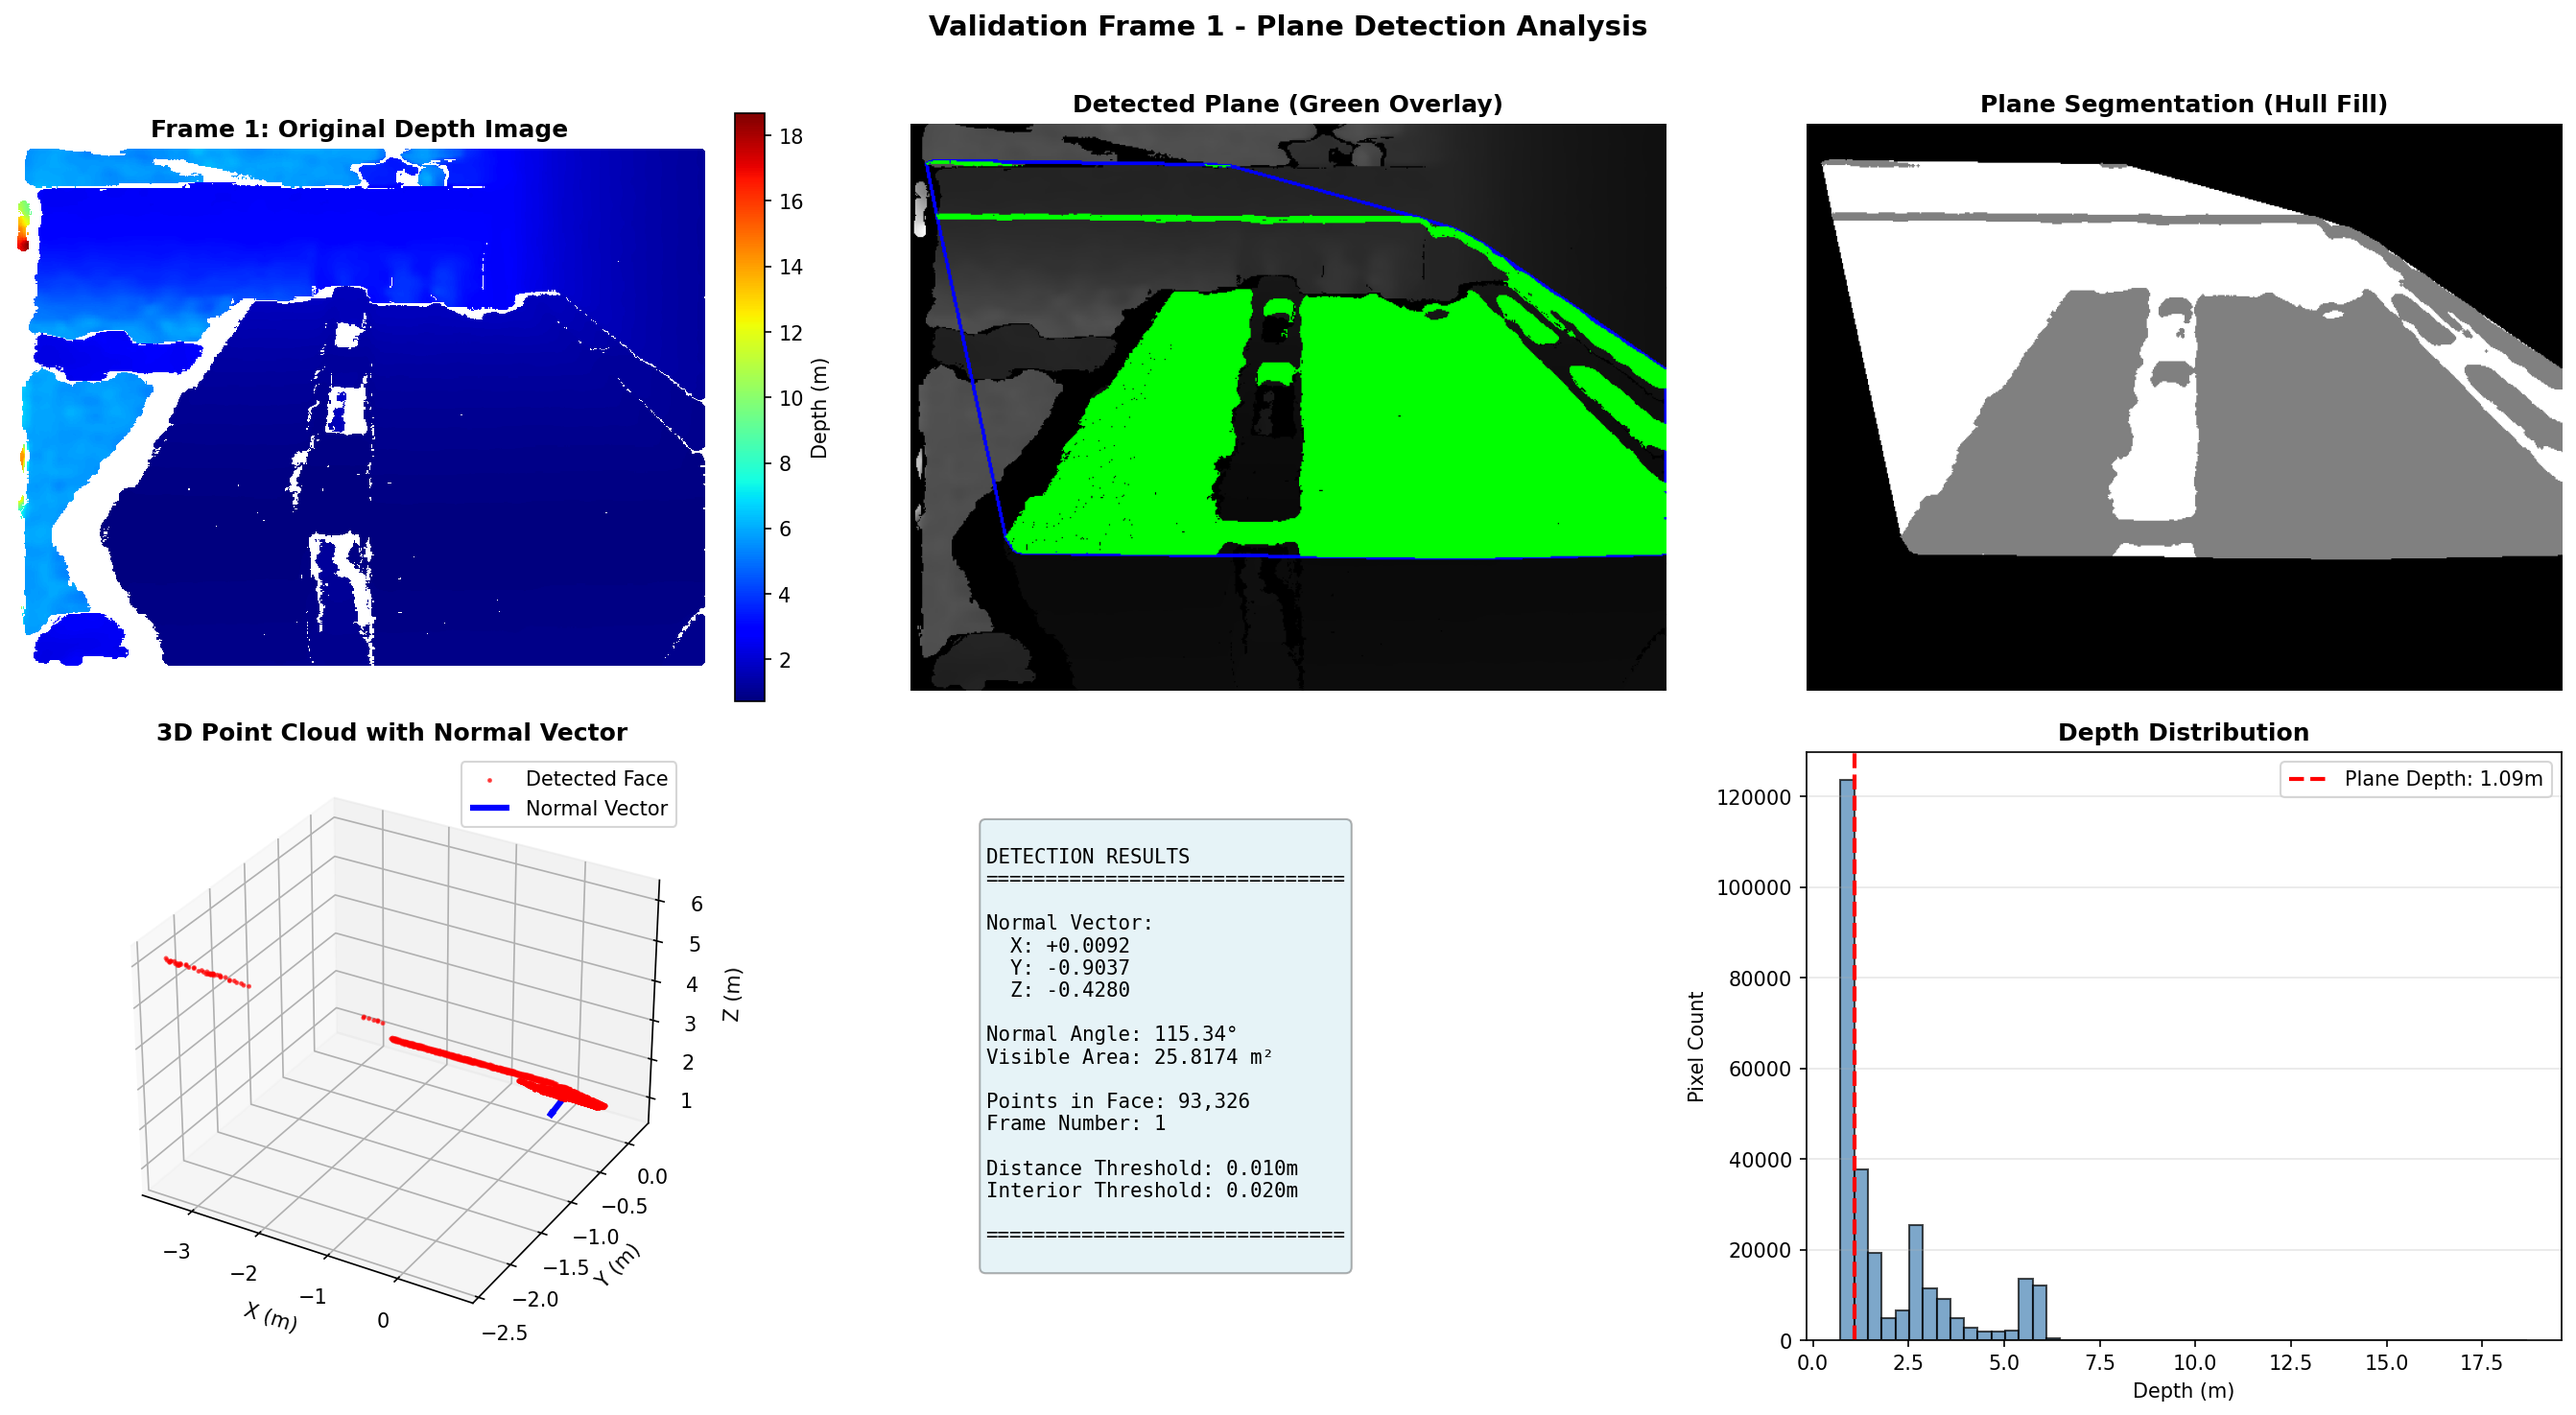
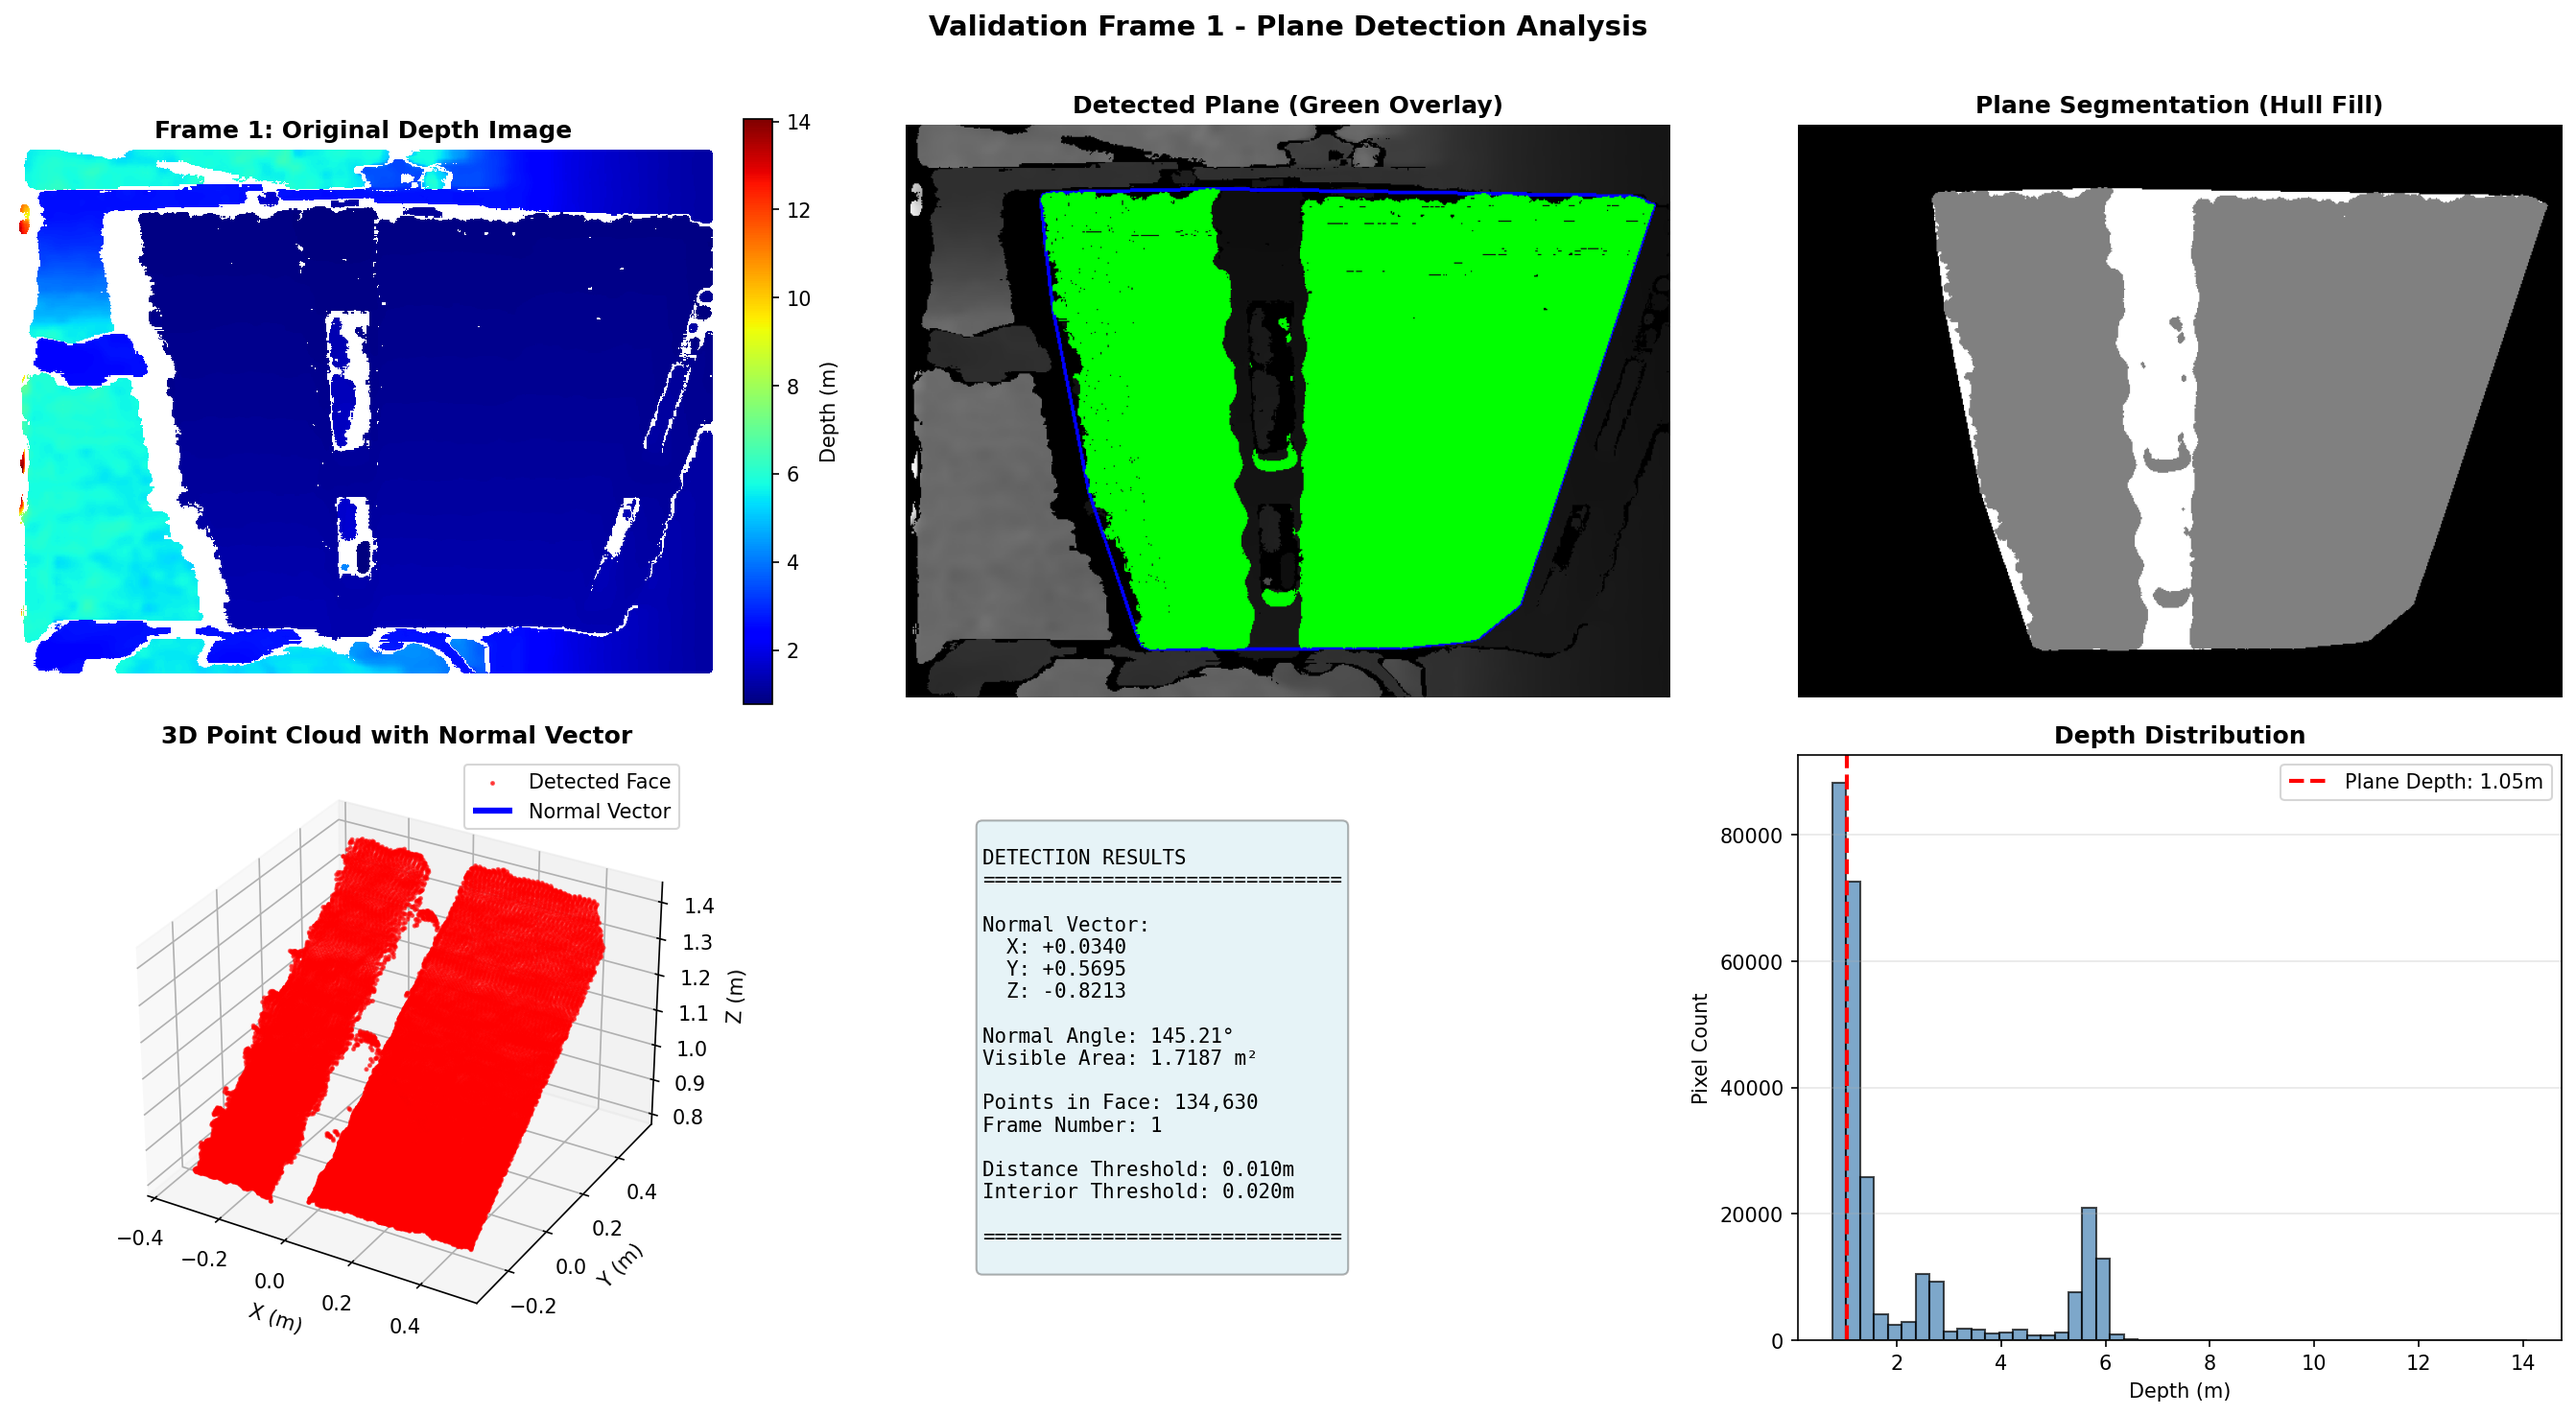
done

diff --git a/final.py b/final.py
@@ -77,7 +77,9 @@ class CuboidAnalysisNode(Node):
         self.processing_complete = False
 
         # ==================== Algorithm Control Parameters ====================
-        self.angle_threshold_deg = 0.0  # Considering all messages as unique as camera seems to be moving
+        self.angle_threshold_deg = (
+            0.0  # Considering all messages as unique as camera seems to be moving
+        )
         self.ransac_distance_threshold = 0.01
         self.interior_distance_threshold = 0.02
         self.min_points_for_plane = 100
@@ -181,6 +183,50 @@ class CuboidAnalysisNode(Node):
         # Step 2: Project RANSAC inliers to 2D
         points_3d = np.asarray(pcd.points)
         inlier_points = points_3d[initial_inliers]
+
+        inlier_cloud = o3d.geometry.PointCloud()
+        inlier_cloud.points = o3d.utility.Vector3dVector(inlier_points)
+
+        # DBSCAN for connected components
+        labels = np.array(
+            inlier_cloud.cluster_dbscan(
+                eps=self.dbscan_eps if hasattr(self, "dbscan_eps") else 0.02,
+                min_points=(
+                    self.dbscan_min_pts if hasattr(self, "dbscan_min_pts") else 80
+                ),
+            )
+        )
+
+        # Handle no clusters found
+        valid_labels = labels[labels >= 0]
+        if len(valid_labels) == 0:
+            self.get_logger().warn("No valid clusters found in plane inliers")
+            a, b, c, d = plane_model
+            normal = np.array([a, b, c]) / np.linalg.norm([a, b, c])
+            if np.dot(normal, np.array([0, 0, 1])) > 0:
+                normal = -normal
+            return normal, pcd.select_by_index(initial_inliers), len(initial_inliers)
+
+        # --- 🧩 Get top k largest clusters ---
+        counts = np.bincount(valid_labels)
+        sorted_clusters = np.argsort(counts)[::-1]  # Descending order
+
+        num_clusters_to_keep = min(2, len(sorted_clusters))
+        top_clusters = sorted_clusters[:num_clusters_to_keep]
+
+        # Merge both clusters into one refined cloud
+        combined_indices = np.concatenate(
+            [np.where(labels == c)[0] for c in top_clusters]
+        )
+
+        refined_cloud = inlier_cloud.select_by_index(combined_indices)
+
+        a, b, c, d = plane_model
+        normal = np.array([a, b, c]) / np.linalg.norm([a, b, c])
+        if np.dot(normal, np.array([0, 0, 1])) > 0:
+            normal = -normal
+
+        inlier_points = np.asarray(refined_cloud.points)
 
         # Project inliers to image coordinates
         u_coords = (

diff --git a/README.md b/README.md
@@ -4,7 +4,7 @@ A CV solution for estimating the 3D rotation of a cuboid using depth image proce
 
 [![ROS2](https://img.shields.io/badge/ROS2-Humble-blue)](https://docs.ros.org/en/humble/Releases/Release-Humble-Hawksbill.html)
 
-![alt text](validation_frames/frame_000_validation.png) 
+![alt text](validation_frames/frame_006_validation.png) 
 
 ![alt text](validation_frames/frame_001_validation.png) 
 
